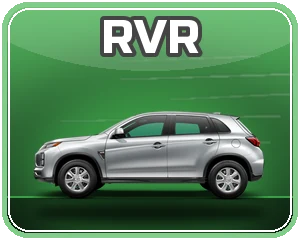
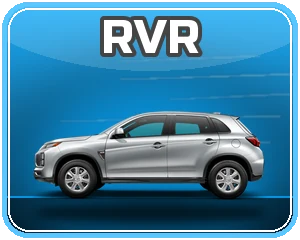
Madness t130u-t134u: rotating wheels (distance/radius, motion blur) on all side-view cars; per-symbol win sounds; louder climbing lining-up bell; plain stop for non-contributing reels; RVR blue / Sportback EV green tiles; off-road + rally backgrounds scroll so cars drive forward; tests wheels/lineup

diff --git a/public/madness/game.js b/public/madness/game.js
@@ -97,6 +97,7 @@ function forceOf(kind) {
     rv5w: fix([['KY', 'RV', 'TI'], ['EC', 'RV', 'OU'], ['KY', { s: 'WD', mult: 2 }, 'TI'], ['EC', 'RV', 'OU'], ['EV', 'RV', 'PH']]),
     rv5x2: fix([['KY', 'RV', 'TI'], ['RV', 'RV', 'OU'], ['KY', 'RV', 'TI'], ['EC', 'RV', 'OU'], ['EV', 'RV', 'PH']]),
     plugs2: fix([['KY', 'PL', 'TI'], ['EC', 'OU', 'EV'], ['KY', 'RV', 'PL'], ['EC', 'OU', 'EV'], ['KY', 'RV', 'TI']]),
+    phscatter: fix([['KY', 'RV', 'TI'], ['PH', 'EC', 'OU'], ['EV', 'PH', 'EC'], ['PH', 'OU', 'EV'], ['EC', 'PH', 'OU']]),
     noline: fix([['KY', 'RV', 'TI'], ['EC', 'OU', 'EV'], ['KY', 'RV', 'TI'], ['EC', 'OU', 'EV'], ['KY', 'RV', 'TI']]),
     ph5: fix([['KY', 'PH', 'TI'], ['EC', 'OU', 'PH'], ['KY', 'PH', 'TI'], ['PH', 'EC', 'OU'], ['EV', 'PH', 'RV']]),
     win: row('EC', 3), big: g => { row('EV', 5)(g); set(g, 1, 0, { s: 'EV' }); set(g, 3, 2, { s: 'EV' }); set(g, 2, 1, { s: 'WD', mult: 2 }); },
@@ -183,7 +184,7 @@ function markWins(res) { const cells = new Set(); for (const w of res.ways) for 
 // t116u: multiple wins are shown one by one so the total visibly adds up: first ALL winning tiles together, then each way in turn
 // (its tiles incl. wilds + its path + "3× RVR · 3 WAYS · 0.70"), the WIN meter counting up way by way to the total; the cycle keeps
 // going while idle and is cleared the instant SPIN is pressed (clearWinBanner).
-const SYMC = { RV: '#3fe06a', EC: '#ff9a3a', OU: '#4a8cff', EV: '#22d8ff', PH: '#ffd84a' };
+const SYMC = { RV: '#2ab4ff', EC: '#ff9a3a', OU: '#4a8cff', EV: '#3fe06a', PH: '#ffd84a' };
 let winCyc = null; window.__winCycle = null;
 // t123u: ONE amount function for every way: the banner, the win cycle, the WIN meter (credits + $) and the paytable all use M.wayPay / wayAmt,
 // so a single 5x RVR way at 50 credits x 10¢ reads 100 credits = $10.00 everywhere. Wild multipliers / the Madness progressive are spelled out.
@@ -200,12 +201,12 @@ async function resolve(res, mode) {
   if (win > 0) { const ways = res.ways.slice().sort((a, b) => b.pay - a.pay); res = Object.assign({}, res, { ways }); A.play('win', ways.length); $('frame').classList.add('winning');
     const cyc = winCyc = { res, i: 0, labels: ways.map(w => wayLabel(w, res)), total: win, timer: 0, dead: false }; window.__winCycle = { n: ways.length, labels: cyc.labels, pays: ways.map(w => wayAmt(w, res)), credits: ways.map(w => cr(wayAmt(w, res))), total: win };
     showAllWins(res, win); fxs({ kind: 'winways', n: ways.length });
-    const t = M.tier(win, bet()); try { SH.win((ways.find(w => M.CARS.includes(w.s)) || ways[0]).s, '+' + fmt(win), t); } catch (e) {}
+    const t = M.tier(win, bet()); A.play('symWin', ways[0].s, ['win', 'big', 'mega', 'madness'].indexOf(t)); /* t131u: the top way's own symbol sound */ try { SH.win((ways.find(w => M.CARS.includes(w.s)) || ways[0]).s, '+' + fmt(win), t); } catch (e) {}
     const _t = t, step = quick ? 120 : mode ? 420 : 650, base = disp.win;
     if (t !== 'win') { await bigWin(win, t); disp.win = base + win; meters(); }
     else await sleep(quick ? 150 : 600);
     // first pass: each way in turn, WIN meter climbing way by way
-    if (ways.length > 1 && !cyc.dead) { let run = 0; for (let i = 0; i < ways.length && !cyc.dead; i++) { run += wayAmt(ways[i], res); showWay(res, i, run); A.play('coin', i);
+    if (ways.length > 1 && !cyc.dead) { let run = 0; for (let i = 0; i < ways.length && !cyc.dead; i++) { run += wayAmt(ways[i], res); showWay(res, i, run); A.play('coin', i); if (i) A.play('symWin', ways[i].s, 0);
         if (t === 'win') await roll('win', base + Math.min(run, win), step * .8, true); else await sleep(step); }
       if (t === 'win') { disp.win = base + win; meters(); } }
     else if (t === 'win') await roll('win', base + win, Math.min(1400, 400 + win / bet() * 120), true);
@@ -223,8 +224,8 @@ function stopSound(r, cells) { if (r === 0) { lineSt.cols = []; lineSt.flags = 0
   const live = M.PAYSYMS.filter(s => lineSt.cols.slice(0, r + 1).every(col => col && col.some(c => c.s === s || c.s === 'WD')) && lineSt.cols[0].some(c => c.s === s));
   const n = live.length ? r + 1 : 0, top = live.length ? live[live.length - 1] : null, heavy = cells.some(c => /PH|WD|FL|PL/.test(c.s)); let kind = 'plain';
   if (n >= 2) { kind = 'lineUp'; A.play('lineUp', n, M.PAYSYMS.indexOf(top)); const hot = []; for (let k = 0; k <= r; k++) lineSt.cols[k].forEach((c, y) => { if (live.includes(c.s) || c.s === 'WD') hot.push([k, y]); }); try { reels.lineUp(hot, n); } catch (e) {} }
-  else A.play('reelStop', r, heavy);
-  const land = []; cells.forEach(c => { if (c.s === 'FL') { lineSt.flags++; land.push('flag'); A.play('flag', lineSt.flags - 1); } else if (c.s === 'PL') { lineSt.plugs++; land.push('plug'); A.play('plugLand', lineSt.plugs); } else if (c.s === 'WD') { land.push('wild'); A.play('sparkle'); } else if (c.s === 'PH') land.push('ph'); });
+  else A.play('reelStop', r, false); // t132u: a stop that continues nothing is ONLY the plain clunk (no per-symbol sounds)
+  const land = []; cells.forEach(c => { if (c.s === 'FL') { lineSt.flags++; land.push('flag'); A.play('flag', lineSt.flags - 1); } else if (c.s === 'PL') { lineSt.plugs++; land.push('plug'); A.play('plugLand', lineSt.plugs); } else if (c.s === 'WD' && n >= 2) { land.push('wild'); A.play('sparkle'); } else if (c.s === 'PH' && n >= 2 && live.includes('PH')) land.push('ph'); });
   if (land.includes('ph')) A.play('phLand', n);
   window.__stopLog.push({ r, kind, n, top, land }); }
 function meterPulse(m) { meters(); if (m.full) { SH.meter(1, true); toast('BOOST FULL!', 1500); A.play('turbo'); } }
@@ -378,7 +379,7 @@ function showPay() { const b = bet(), cell = (s, n) => { const u = M.wayPay(s, n
   let h = `<div class=payhead>PAYS PER WINNING WAY AT YOUR CURRENT BET<br><b>${betCr()} credits × ${denomTxt(st.denom)} = ${money(betCents())}</b></div>
   <p>243 ways: matching symbols on adjacent reels from the left pay, anywhere on each reel. Each separate path through matching tiles is one WAY, so 2 RVRs on reel 2 = 2 ways (pays ×2). A MADNESS WILD with ×2 / ×3 multiplies its ways. The win banner shows exactly this: <i>5× RVR · 1 WAY = ${fmt(M.wayPay('RV', 5, b))}</i>.</p>
   <table class=paytab><tr><th></th><th>Symbol</th><th>3</th><th>4</th><th>5</th></tr>`;
-  for (const s of M.PAYSYMS.slice().reverse()) h += `<tr class="${M.SYM[s].kind}"><td><img src="/madness/art/${s}.webp?v=3" alt=""></td><td>${M.SYM[s].name}</td>${[3, 4, 5].map(n => cell(s, n)).join('')}</tr>`;
+  for (const s of M.PAYSYMS.slice().reverse()) h += `<tr class="${M.SYM[s].kind}"><td><img src="/madness/art/${s}.webp?v=4" alt=""></td><td>${M.SYM[s].name}</td>${[3, 4, 5].map(n => cell(s, n)).join('')}</tr>`;
   h += `</table><p>5 of a kind on one way: PHEV ${M.PAY.PH[2]}× bet, Outlander ${M.PAY.OU[2]}×, Sportback EV ${M.PAY.EV[2]}×, Eclipse Cross ${M.PAY.EC[2]}×, RVR ${M.PAY.RV[2]}×. Values above change with your bet and denomination. <b>5 Outlander PHEVs on the centre row = PHEV GRAND (${usd(M.JP.grand * b)})</b>.</p><h3>Specials</h3><p><img src="/madness/art/WD.webp" alt=""> MADNESS WILD (reels 2-4) substitutes for every symbol; in base play it can carry ×2/×3, in free spins ×2 – ×10. Multipliers on one way multiply.</p>
   <p><img src="/madness/art/FL.webp" alt=""> 3 / 4 / 5 CHECKERED FLAGS anywhere spin the MADNESS WHEEL (more flags = fewer locked wedges).</p><p><img src="/madness/art/PL.webp" alt=""> 3 CHARGE PLUGS (reels 1, 3, 5) start PHEV CHARGE: 1 km = 1× bet, full 72 km = 72× bet (${usd(72 * b)}).</p>`;
   $('menuBody').innerHTML = h; window.__payShown = { bet: b, betCr: betCr(), denom: st.denom, rows: Object.fromEntries(M.PAYSYMS.map(s => [s, [3, 4, 5].map(n => ({ usd: fmt(M.wayPay(s, n, b)), cr: cr(M.wayPay(s, n, b)), x: M.PAY[s][n - 3] }))])) }; }

diff --git a/public/madness/scenes.js b/public/madness/scenes.js
@@ -6,7 +6,7 @@
   const sp = () => window.__madSpeed || 1;
   const sleep = ms => new Promise(r => setTimeout(r, ms * sp()));
   const rnd = (a, b) => a + Math.random() * (b - a);
-  const RACERS = [{ k: 'rvr', name: 'RVR', c: '#11b8a6' }, { k: 'ec', name: 'ECLIPSE CROSS', c: '#ff7a1a' }, { k: 'ev', name: 'SPORTBACK EV', c: '#00c8ff' }, { k: 'phev', name: 'OUTLANDER PHEV', c: '#e0182d' }];
+  const RACERS = [{ k: 'rvr', name: 'RVR', c: '#2ab4ff' }, { k: 'ec', name: 'ECLIPSE CROSS', c: '#ff7a1a' }, { k: 'ev', name: 'SPORTBACK EV', c: '#3fe06a' }, { k: 'phev', name: 'OUTLANDER PHEV', c: '#e0182d' }];
   const ORD = ['', '1ST', '2ND', '3RD', '4TH'];
   // ---------------- scene controller ----------------
   const S = { draw: null, alive: false, raf: 0, seq: 0 };
@@ -40,8 +40,8 @@
     const scroll = { x: 0 };
     S.draw = (g, W, H, now) => { const speed = st.phase === 'race' ? 26 : st.phase === 'finish' ? 6 : 0; scroll.x = (scroll.x + speed * sp() ** -1) % 80; scroll.px = (scroll.px || 0) + speed * 1.6;
       // photo-real circuit (grandstand + asphalt), scrolling with motion blur while racing
-      const ph = F().photo('bg-rally'); g.fillStyle = '#111'; g.fillRect(0, 0, W, H); const m = F().cover(g, ph, W, H, { scroll: scroll.px });
-      if (speed > 10) { g.globalAlpha = .35; F().cover(g, ph, W, H, { scroll: scroll.px - 14 }); g.globalAlpha = .2; F().cover(g, ph, W, H, { scroll: scroll.px - 28 }); g.globalAlpha = 1; }
+      const ph = F().photo('bg-rally'); g.fillStyle = '#111'; g.fillRect(0, 0, W, H); const m = F().cover(g, ph, W, H, { scroll: -scroll.px });
+      if (speed > 10) { g.globalAlpha = .35; F().cover(g, ph, W, H, { scroll: -(scroll.px - 14) }); g.globalAlpha = .2; F().cover(g, ph, W, H, { scroll: -(scroll.px - 28) }); g.globalAlpha = 1; }
       const top = m.ok ? m.y(.475) : H * .3, bot = m.ok ? m.y(.885) : H * .74, laneH = (bot - top) / 4;
       g.fillStyle = 'rgba(255,255,255,.35)'; for (let l = 1; l < 4; l++) { const y = top + l * laneH; for (let x = -80 + scroll.x; x < W; x += 80) g.fillRect(x, y - 1, 40, 2); }
       const vg = g.createLinearGradient(0, 0, 0, H); vg.addColorStop(0, 'rgba(0,0,0,.35)'); vg.addColorStop(.2, 'rgba(0,0,0,0)'); vg.addColorStop(.85, 'rgba(0,0,0,0)'); vg.addColorStop(1, 'rgba(0,0,0,.6)'); g.fillStyle = vg; g.fillRect(0, 0, W, H);
@@ -53,7 +53,7 @@
       // cars
       const w = Math.min(W * .3, laneH * 2.3);
       for (let i = 0; i < 4; i++) { const y = top + (i + 1) * laneH - laneH * .12, x = worldX(st.prog[i]) + (st.phase === 'race' ? Math.sin(now / 90 + i) * 1.5 : 0); const mine = i === st.pick;
-        F().drawCar(g, RACERS[i].k, x, y, w, { flame: st.phase === 'race' && (st.boost && st.boost[i]) ? 1.6 : st.phase === 'race' ? .6 : 0, glow: mine ? '#ffd84a' : null });
+        F().drawCar(g, RACERS[i].k, x, y, w, { track: (st.wt = st.wt || [])[i] || (st.wt[i] = {}), wx: -st.prog[i] * W * 2.6, wspin: st.phase === 'lights' && st.lights > 5 ? -.25 : 0, flame: st.phase === 'race' && (st.boost && st.boost[i]) ? 1.6 : st.phase === 'race' ? .6 : 0, glow: mine ? '#ffd84a' : null });
         g.fillStyle = RACERS[i].c; g.font = `900 ${Math.round(laneH * .2)}px Russo,sans-serif`; g.textAlign = 'center'; { const lab = (mine ? '★ YOU · ' : '') + RACERS[i].name, tw = g.measureText(lab).width; g.fillText(lab, Math.max(tw / 2 + 6, Math.min(W - tw / 2 - 6, x)), y - w * .36); }
         if (st.places && st.phase === 'done') { g.fillStyle = '#ffd84a'; g.font = `900 ${Math.round(laneH * .32)}px Russo,sans-serif`; g.fillText(ORD[st.places[i]], x + w * .62, y - w * .12); } }
       // speed lines
@@ -95,14 +95,14 @@
     S.draw = (g, W, H, now) => { const c = TCOL[st.terrain] || TCOL.GRAVEL;
       const spd = st.drive ? 7 : st.stuck ? .4 : 0; scrollX += spd;
       // photo-real terrain for each stage (gravel / mud / snow / rocks / sand), scrolling as you drive
-      g.fillStyle = '#111'; g.fillRect(0, 0, W, H); const m = F().cover(g, F().photo('bg-' + String(st.terrain || 'GRAVEL').toLowerCase()), W, H, { scroll: scrollX * 1.2, fy: .6 });
+      g.fillStyle = '#111'; g.fillRect(0, 0, W, H); const m = F().cover(g, F().photo('bg-' + String(st.terrain || 'GRAVEL').toLowerCase()), W, H, { scroll: -scrollX * 1.2, fy: .6 });
       const base = m.ok ? Math.min(H * .86, m.y(.8)) : H * .66; const gy = x => base + Math.sin((x - scrollX) / 55) * 6 + Math.sin((x - scrollX) / 17) * 2;
       const vg = g.createLinearGradient(0, 0, 0, H); vg.addColorStop(0, 'rgba(0,0,0,.55)'); vg.addColorStop(.3, 'rgba(0,0,0,.05)'); vg.addColorStop(1, 'rgba(0,0,0,.25)'); g.fillStyle = vg; g.fillRect(0, 0, W, H);
       if (st.summit) { g.fillStyle = '#fff'; g.fillRect(W * .2, H * .2, 3, 50); g.fillStyle = '#ff2040'; g.fillRect(W * .2 + 3, H * .2, 30, 18); }
       const w = W * .55, cx = W * .48, y = gy(cx) + 4 + (st.drive ? Math.sin(now / 50) * 3 : 0) + (st.stuck ? Math.sin(now / 25) * 2 : 0);
       const tilt = (gy(cx + 30) - gy(cx - 30)) / 60 * .6 + (st.stuck ? Math.sin(now / 40) * .02 : 0);
       if (st.rescue) { g.save(); g.globalAlpha = .5 + .5 * Math.sin(now / 80); g.strokeStyle = '#22c3ff'; g.lineWidth = 6; g.shadowColor = '#22c3ff'; g.shadowBlur = 30; g.beginPath(); g.ellipse(cx, y - w * .15, w * .6, w * .25, 0, 0, 7); g.stroke(); g.restore(); }
-      F().drawCar(g, 'out', cx, y, w, { tilt, flame: st.rescue ? 1.2 : 0 });
+      F().drawCar(g, 'out', cx, y, w, { tilt, flame: st.rescue ? 1.2 : 0, track: st.wt || (st.wt = {}), wx: -scrollX, wspin: st.stuck ? -.45 : 0 });
       if ((st.drive || st.stuck) && Math.random() < .9) for (let k = 0; k < (st.stuck ? 3 : 1); k++) { g.fillStyle = c[2]; const px = cx + w * rnd(-.35, .4), py = y - rnd(0, 30); g.globalAlpha = .8; g.beginPath(); g.arc(px + rnd(0, 30), py, rnd(2, 6), 0, 7); g.fill(); g.globalAlpha = 1; }
       // stage progress dots
       for (let i = 0; i < 5; i++) { const x = W / 2 + (i - 2) * 34, yy = H * .2; g.fillStyle = i < st.stage ? '#30e060' : i === st.stage ? '#ffd84a' : 'rgba(255,255,255,.25)'; g.beginPath(); g.arc(x, yy, 10, 0, 7); g.fill(); g.fillStyle = '#000'; g.font = '900 11px Russo,sans-serif'; g.textAlign = 'center'; g.textBaseline = 'middle'; g.fillText(i + 1, x, yy + 1); }

diff --git a/public/madness/fx.js b/public/madness/fx.js
@@ -24,7 +24,11 @@
     g.fillStyle = 'rgba(0,0,0,.45)'; g.beginPath(); g.ellipse(0, -h * .02, w * .48, h * .07, 0, 0, 7); g.fill();
     if (o.flame) { const fl = o.flame; for (let i = 0; i < 3; i++) { const L = w * (.12 + Math.random() * .18) * fl; const gr = g.createLinearGradient(w * .48, 0, w * .48 + L, 0); gr.addColorStop(0, 'rgba(120,220,255,.95)'); gr.addColorStop(.4, 'rgba(255,170,40,.8)'); gr.addColorStop(1, 'rgba(255,40,0,0)'); g.fillStyle = gr; g.beginPath(); g.moveTo(w * .46, -h * .3); g.lineTo(w * .48 + L, -h * .26 + rnd(-2, 2)); g.lineTo(w * .46, -h * .2); g.fill(); } }
     if (o.glow) { g.shadowColor = o.glow; g.shadowBlur = 24; }
-    g.drawImage(I, -w / 2, -h, w, h); g.restore(); return h; }
+    g.drawImage(I, -w / 2, -h, w, h); g.shadowBlur = 0;
+    // t130u wheels turn with the car's travel (o.track: state object; o.wx: world x when the camera follows; o.wspin: extra wheelspin; o.wheel: {a, o} fixed)
+    if (window.MadWheels) { let a = 0, om = 0; if (o.track) { a = MadWheels.step(o.track, o.wx != null ? o.wx : x, o.wx != null ? 0 : y, w, o.wspin || 0); om = o.track.wo; } else if (o.wheel) { a = o.wheel.a; om = o.wheel.o; }
+      if (o.flip) { a = -a; om = -om; } if (o.track || o.wheel) MadWheels.draw(g, I, -w / 2, -h, w, h, a, om); }
+    g.restore(); return h; }
   // ---------------- showroom / track behind the cabinet ----------------
   const stage = { cv: null, g: null, t0: performance.now(), cruisers: [], stars: [], attract: false, mode: '', paused: false, last: 0, roadY: 0, k: 1 };
   function stageInit(cv) { stage.cv = cv; stage.g = cv.getContext('2d'); for (let i = 0; i < 70; i++) stage.stars.push({ x: Math.random(), y: Math.random() * .5, s: Math.random() * 1.6 + .3, p: Math.random() * 6 }); requestAnimationFrame(stageLoop); }
@@ -42,7 +46,7 @@
     for (let i = stage.cruisers.length - 1; i >= 0; i--) { const c = stage.cruisers[i]; c.x -= c.v * dt; const w = (c.lane ? 108 : 92) * k, y = roadY + (c.lane ? rh * .95 : rh * .45);
       // headlight beam
       const hg = g.createLinearGradient(c.x - w * .5, 0, c.x - w * 1.6, 0); hg.addColorStop(0, 'rgba(255,250,210,.45)'); hg.addColorStop(1, 'rgba(255,250,210,0)'); g.fillStyle = hg; g.beginPath(); g.moveTo(c.x - w * .46, y - w * .14); g.lineTo(c.x - w * 1.6, y - w * .28); g.lineTo(c.x - w * 1.6, y + w * .02); g.lineTo(c.x - w * .46, y - w * .08); g.fill();
-      drawCar(g, c.k, c.x, y, w, { flame: c.flame ? 1 : 0 }); if (c.x < -w) stage.cruisers.splice(i, 1); }
+      drawCar(g, c.k, c.x, y, w, { flame: c.flame ? 1 : 0, track: c }); if (c.x < -w) stage.cruisers.splice(i, 1); }
   }
   // ---------------- particle overlay ----------------
   const P = { cv: null, g: null, list: [], running: false, emitters: [], hooks: [] };
@@ -101,8 +105,8 @@
         if (u >= 1 && !done) { done = true; res(); return false; } return true; }); fxStart();
       setTimeout(() => { if (!done) { done = true; if (!mid) { mid = true; try { onMid && onMid(); } catch (e) {} } res(); } }, D + 1500); }); },
     // car blasting across the screen (big wins / transitions)
-    flyBy(k = 'phev', ms = 1400, y) { const t0 = performance.now(), D = ms * speed(); P.hooks.push((now, g, W, H) => { const u = (now - t0) / D, w = W * .7, x = W + w / 2 - u * (W + w * 1.2), yy = y != null ? y : H * .72; if (u >= 1) return false;
-      MadFXObj.smoke(x + w * .45, yy - 10, 2); drawCar(g, k, x, yy, w, { flame: 1.5, glow: '#ff3048' }); return true; }); fxStart(); },
+    flyBy(k = 'phev', ms = 1400, y) { const tr = {}, t0 = performance.now(), D = ms * speed(); P.hooks.push((now, g, W, H) => { const u = (now - t0) / D, w = W * .7, x = W + w / 2 - u * (W + w * 1.2), yy = y != null ? y : H * .72; if (u >= 1) return false;
+      MadFXObj.smoke(x + w * .45, yy - 10, 2); drawCar(g, k, x, yy, w, { flame: 1.5, glow: '#ff3048', track: tr }); return true; }); fxStart(); },
     // cinematic speed tunnel (runs on the cine canvas until stop())
     tunnel(cv, o = {}) { const g = cv.getContext('2d'), t0 = performance.now(), I = photo('bg-tunnel'), lines = [...Array(70)].map(() => ({ a: rnd(0, 6.283), z: rnd(.05, 1), w: rnd(1, 2.5) })); let alive = true; const col = o.color || '#ff2040';
       const loop = now => { if (!alive) return; requestAnimationFrame(loop); const { W, H, d } = fit(cv); g.setTransform(d, 0, 0, d, 0, 0); const t = (now - t0) / 1000, cx = W / 2, cy = H * .47, R = Math.hypot(W, H) * .6;
@@ -112,7 +116,7 @@
         g.globalCompositeOperation = 'color'; g.fillStyle = col; g.globalAlpha = .45; g.fillRect(0, 0, W, H); g.globalAlpha = 1; g.globalCompositeOperation = 'source-over';
         const vg = g.createRadialGradient(cx, cy, R * .2, cx, cy, R); vg.addColorStop(0, 'rgba(0,0,0,0)'); vg.addColorStop(1, 'rgba(0,0,0,.75)'); g.fillStyle = vg; g.fillRect(0, 0, W, H);
         g.globalCompositeOperation = 'lighter'; for (const L of lines) { L.z -= .03 * (1 + t); if (L.z <= .02) { L.z = 1; L.a = rnd(0, 6.283); } const r1 = R * (1 - L.z) ** 2, r2 = R * (1 - L.z + .08) ** 2; g.strokeStyle = `rgba(255,240,220,${.15 + (1 - L.z) * .5})`; g.lineWidth = L.w * (1.5 - L.z); g.beginPath(); g.moveTo(cx + Math.cos(L.a) * r1, cy + Math.sin(L.a) * r1); g.lineTo(cx + Math.cos(L.a) * r2, cy + Math.sin(L.a) * r2); g.stroke(); } g.globalCompositeOperation = 'source-over';
-        if (o.car) { const u = Math.min(1, t / 1.6), w = W * (.1 + u * u * 1.1); drawCar(g, o.car, cx + Math.sin(t * 30) * u * 3, cy + w * .32, w, { flame: 1 + u, glow: col }); }
+        if (o.car) { const u = Math.min(1, t / 1.6), w = W * (.1 + u * u * 1.1); drawCar(g, o.car, cx + Math.sin(t * 30) * u * 3, cy + w * .32, w, { flame: 1 + u, glow: col, wheel: { a: -t * 28 % 6.283, o: -.6 } }); }
         if (o.bolt && Math.sin(t * 13) > .6) { g.strokeStyle = '#bff4ff'; g.lineWidth = 4; g.shadowColor = '#22c3ff'; g.shadowBlur = 20; g.beginPath(); let x = rnd(0, W), y = 0; g.moveTo(x, y); while (y < H) { x += rnd(-40, 40); y += rnd(20, 60); g.lineTo(x, y); } g.stroke(); g.shadowBlur = 0; } };
       requestAnimationFrame(loop); return () => { alive = false; }; },
   };

diff --git a/public/madness/show.js b/public/madness/show.js
@@ -39,6 +39,8 @@
     // motion ghosts
     if (fast) { g.save(); for (let i = 1; i <= 3; i++) { g.globalAlpha = .16 / i; g.drawImage(img, x + i * w * .06 * Math.min(2, a.v * 3), y, w, h); } g.restore(); }
     g.drawImage(img, x, y, w, h);
+    // t130u wheels turn with the car's travel on screen (hero dive included); a.wspin adds wheelspin (launch/burnout)
+    if (window.MadWheels) { const wa = MadWheels.step(a, x, y, w, a.wspin || 0); MadWheels.draw(g, img, x, y, w, h, wa, a.wo); }
     // tail lights + exhaust flame
     g.save(); g.globalCompositeOperation = 'lighter'; g.fillStyle = 'rgba(255,30,40,.9)'; g.shadowColor = '#ff0020'; g.shadowBlur = 12; g.fillRect(x + w * .93, y + h * .32, w * .04, h * .07);
     if (a.flame) { const fl = (.6 + Math.random() * .4) * a.flame, fx = x + w * .97, fy = y + h * .78; const gr = g.createLinearGradient(fx, 0, fx + w * .25 * fl, 0); gr.addColorStop(0, 'rgba(120,180,255,.95)'); gr.addColorStop(.4, 'rgba(255,170,40,.8)'); gr.addColorStop(1, 'rgba(255,60,0,0)');
@@ -119,7 +121,7 @@
   function colX(r) { try { const c = window.reels.cellRect(r, 0); fit(); return c.left + c.width / 2 - S.rect.left; } catch (e) { return S.W * (r + .5) / 5; } }
   const Show = {
     init(cv) { S.cv = cv; S.g = cv.getContext('2d'); S.k = () => parseFloat(getComputedStyle(document.getElementById('app')).getPropertyValue('--k')) || 1; requestAnimationFrame(loop); ev('init'); },
-    get state() { return { state: S.state, gantry: S.gantry.mode, zoom: +S.cam.z.toFixed(3), red: +S.red.toFixed(2), speed: +S.speed.toFixed(2), meter: +S.tmeter.toFixed(2), actors: S.actors.map(a => a.k + (a.hero ? '*' : '')), frames: S.frames, events: S.events.slice(-20) }; },
+    get state() { return { state: S.state, gantry: S.gantry.mode, zoom: +S.cam.z.toFixed(3), red: +S.red.toFixed(2), speed: +S.speed.toFixed(2), meter: +S.tmeter.toFixed(2), actors: S.actors.map(a => a.k + (a.hero ? '*' : '')), wheels: S.actors.map(a => ({ k: a.k, x: +(a._wx || 0).toFixed(1), y: +(a._wy || 0).toFixed(1), wa: +(a.wa || 0).toFixed(3), wo: +(a.wo || 0).toFixed(3), w: +((a._box && a._box.w) || 0).toFixed(1) })), frames: S.frames, events: S.events.slice(-20) }; },
     spin() { S.state = 'spin'; S.gantry = { mode: 'green', t: performance.now() }; S.tspeed = 1; S.cam.tz = 1.12; S.cam.kick = 3; S.tred = 0; S.hero = null; S.texts.length = 0; S.actors.forEach(a => { if (a.hero) a.dead = true; }); launchAll(3); if (Math.random() < .3) try { window.MadAudio.play('passby', .35); } catch (e) {} ev('spin'); },
     reelStop(r, cells) { const x = colX(r), y = S.H - 6, heavy = cells && cells.some(c => /PH|WD|FL|PL/.test(c.s)); S.cam.kick += heavy ? 5 : 2; puff(x, y, heavy ? 16 : 8); if (heavy) sparks(x, y, 18, cells.some(c => c.s === 'PL') ? '#22c3ff' : '#ffd84a');
       S.flashes.push({ x, y: y - 10, r: S.H * (heavy ? .7 : .45), t0: performance.now(), ms: heavy ? 500 : 320, c: heavy ? '255,240,200' : '200,220,255' }); S.actors.forEach(a => a.flash = heavy ? 1 : .5); if (r === 4) { S.tspeed = 0; S.cam.tz = 1.04; if (S.gantry.mode !== 'win') S.gantry = { mode: 'off', t: performance.now() }; S.state = 'idle'; } ev('stop', { r, heavy }); },
@@ -127,11 +129,11 @@
       else { try { S.engine && S.engine.stop(); } catch (e) {} S.engine = null; } ev('tease', { on }); },
     win(sym, amtText, tier) { const v = view(), k = IMG[sym] ? sym : ({ KY: 'EC', TI: 'RV' }[sym] || 'PH'); S.state = 'win'; S.tred = 0; S.gantry = { mode: 'win', t: performance.now() }; S.actors.forEach(a => { if (!a.hero) a.v = Math.max(a.v, .5); });
       const big = tier && tier !== 'win', W = S.W, H = S.H, t0 = performance.now(), base = Math.min(W * .5, H * 1.5);
-      const a = spawn(k, { hero: true, lane: 1, x: W + 20, w: base, flame: 1, trail: null, trailC: { RV: '#3fe06a', EC: '#ff9a3a', OU: '#4a8cff', EV: '#22d8ff', PH: '#ffd84a' }[k] });
+      const a = spawn(k, { hero: true, lane: 1, x: W + 20, w: base, flame: 1, trail: null, trailC: { RV: '#2ab4ff', EC: '#ff9a3a', OU: '#4a8cff', EV: '#3fe06a', PH: '#ffd84a' }[k] });
       S.hero = a; S.cam.tz = big ? 1.18 : 1.1;
       a.script = (a, now, dt, v) => { const u = (now - t0) / 1000, cx = W / 2 - base / 2;
         if (u < .55) { a.x = W + 20 - (W + 20 - cx) * ease(u / .55); a.flame = 1; }
-        else if (u < .62) { if (!a.braked) { a.braked = 1; puff(a.x + base * .8, laneY(v, 1) - 6, 18); puff(a.x + base * .2, laneY(v, 1) - 6, 12); S.cam.kick += 6; try { window.MadAudio.play('screech', .6); } catch (e) {} } }
+        else if (u < .62) { if (!a.braked) { a.braked = 1; puff(a.x + base * .8, laneY(v, 1) - 6, 18); puff(a.x + base * .2, laneY(v, 1) - 6, 12); S.cam.kick += 6; /* t131u: no generic tyre screech - each symbol has its own win sound (game.js symWin) */ } }
         else if (u < 1.5) { if (Math.floor(u * 6) % 2 === 0) a.flash = 1; if (!a.said) { a.said = 1; const bb = (() => { try { return document.getElementById('brand').getBoundingClientRect().bottom - S.rect.top; } catch (e) { return 0; } })(), fs = Math.round(Math.min(W * .1, H * .2)); S.texts.push({ s: amtText, x: W / 2, y: Math.max(H * .34, bb + fs * .75), size: Math.round(Math.min(W * .1, H * .2)), c: a.trailC, t0: now, ms: 2600 }); } }
         else if (u < 2.3) { // dive into the reels
           const p = (u - 1.5) / .8; a.y = laneY(v, 1) + p * p * H * .9; a.scale = 1 - p * .35; a.trail = a.trail || []; a.trail.push([a.x + base * .5 * (a.scale || 1), (a.y || 0) - 4]); if (a.trail.length > 16) a.trail.shift(); a.flame = 1; }

diff --git a/public/madness/audio.js b/public/madness/audio.js
@@ -91,7 +91,7 @@
     wheelSpin: 1.3, whoosh: .9, whoosh2: 1 };
   const ALL = Object.keys(GAIN);
   // loaded right after the first tap (what a base spin needs); everything else streams in afterwards, a few at a time
-  const CORE = ['reelSpin', 'reelStop', 'reelStopHeavy', 'click', 'tick', 'coin', 'coins', 'whoosh', 'rev', 'rev2', 'screechShort', 'limiter', 'engineLoop', 'chaching', 'drift', 'turbo', 'fanfare', 'crowd', 'fireworks', 'impact', 'whoosh2', 'horn', 'chime', 'spark', 'plug', 'plugIn'];
+  const CORE = ['reelSpin', 'reelStop', 'reelStopHeavy', 'click', 'tick', 'coin', 'coins', 'whoosh', 'rev', 'rev2', 'screechShort', 'limiter', 'engineLoop', 'chaching', 'drift', 'turbo', 'fanfare', 'crowd', 'fireworks', 'impact', 'whoosh2', 'horn', 'chime', 'spark', 'plug', 'plugIn', 'surge', 'powerUp', 'blowoff', 'beep', 'unlock', 'humLoop', 'fanfareBig', 'limiter', 'burnout', 'screech'];
   const buf = {}, loading = {}; let sbus = null, preloaded = false;
   Object.assign(diag, { total: ALL.length, loaded: 0, failed: [], errors: [], fmt: {}, http: {}, samples: 0 });
   const canAAC = (() => { try { const a = document.createElement('audio'); return !!(a.canPlayType && a.canPlayType('audio/mp4; codecs="mp4a.40.2"').replace(/no/, '')); } catch (e) { return false; } })();
@@ -144,8 +144,22 @@
     pick: () => { const r = smp('click', { gain: .7 }); S.pick(); return r || 1; },
     gear: () => smp('gear', { gain: .8 }) && (smp('rev2', { gain: .9, delay: .25 }), smp('turbo', { gain: .9, delay: .9 }), 1),
     // t127u 'lining up' on a reel stop: revs climb higher and louder with every reel in the chain, plus a rising tone; 5 in a row adds a crowd lift
-    lineUp: (n = 2, rank = 0) => { const k = n - 2; const r = smp('reelStop', { gain: .8, rate: 1.05 + k * .05 }); if (!r) S.reelStop(n - 1); smp('rev2', { gain: .45 + k * .18, rate: .92 + k * .13, dur: .55 + k * .15, offset: .2 });
-      const t = now(); osc('triangle', N(67 + k * 4 + Math.min(rank, 6)), 0, t, .22 + k * .05, .09 + k * .02); osc('sine', N(79 + k * 4), 0, t + .06, .25, .05 + k * .015); if (n >= 4) smp('whoosh2', { gain: .4 }); if (n >= 5) smp('crowd', { gain: .5, dur: 1.4 }); return r || 1; },
+    // t127u/t131u 'lining up' on a reel stop: a bright bell that climbs a step per matching reel (like Gorilla) + revs climbing higher and louder; 4 adds a whoosh, 5 a crowd lift
+    lineUp: (n = 2, rank = 0) => { const k = Math.max(0, Math.min(3, n - 2)), t = now(), st = [0, 4, 7, 12][k]; const r = smp('reelStop', { gain: .7, rate: 1.05 + k * .05 }); if (!r) S.reelStop(n - 1);
+      smp('chime', { gain: .9 + k * .15, rate: Math.pow(2, (st + 2) / 12), dur: .9 }); smp('rev2', { gain: .6 + k * .2, rate: .95 + k * .14, dur: .5 + k * .15, offset: .2 });
+      osc('triangle', N(76 + st), 0, t, .35 + k * .05, .16 + k * .03); osc('sine', N(88 + st), 0, t + .05, .3, .08 + k * .02); if (n >= 4) smp('whoosh2', { gain: .5 }); if (n >= 5) smp('crowd', { gain: .6, dur: 1.4 }); diag.lineUps = (diag.lineUps || 0) + 1; return r || 1; },
+    // t131u each symbol's own win sound; lvl 0 = win, 1 = big, 2 = mega, 3 = madness (scales the layers and the volume)
+    symWin: (sym, lvl = 0) => { const L = Math.max(0, Math.min(3, lvl | 0)), G = .8 + .12 * L, o = (n, x = {}) => smp(n, Object.assign({}, x, { gain: (x.gain == null ? 1 : x.gain) * G })); let r;
+      switch (sym) {
+        case 'TI': r = o('screech', { verb: .2 }); if (L) o('burnout', { gain: .6, delay: .4 }); break;                                   // performance tire: screeching tires
+        case 'PH': r = o('surge', { gain: .9, dur: 2.2 }); o('powerUp', { gain: .7, delay: .1 }); o('chime', { gain: .8, delay: .9 }); o(L ? 'fanfareBig' : 'fanfare', { gain: .7, delay: .7 }); break; // PHEV: electric surge + premium fanfare
+        case 'OU': r = o('rev', { gain: 1.1, rate: .88, verb: .25 }); if (L) o('limiter', { gain: .7, delay: .9 }); break;                 // Outlander: big V6-style roar
+        case 'EV': r = o('whoosh2', { gain: .9, rate: .8 }); o('humLoop', { gain: .8, rate: 1.7, dur: 1.4, delay: .1 }); o('zap', { gain: .45, rate: 1.4, delay: .35 }); if (L) o('powerUp', { gain: .6, rate: 1.3, delay: .4 }); break; // Sportback EV: futuristic electric whoosh + hum
+        case 'EC': r = o('turbo', { gain: .9 }); o('blowoff', { gain: .9, delay: .75 }); o('rev2', { gain: .6, delay: .95 }); break;      // Eclipse Cross: turbo spool + blow-off + rev
+        case 'RV': r = o('horn', { gain: .75, dur: .45 }); o('horn', { gain: .75, dur: .35, delay: .5 }); o('rev2', { gain: .8, delay: .9 }); break; // RVR: horn toot-toot + rev
+        case 'KY': r = o('beep', { gain: .8, rate: 1.3 }); o('beep', { gain: .8, rate: 1.3, delay: .2 }); o('unlock', { gain: .8, delay: .45 }); break; // smart key: fob chirp-chirp + unlock
+        default: r = o('coins'); }
+      if (L >= 2) o('crowd', { gain: .6, delay: .5 }); (diag.symWins = diag.symWins || []).push(sym); if (diag.symWins.length > 40) diag.symWins.shift(); return r || 1; },
     phLand: (n = 0) => smp('horn', { gain: .45, rate: 1.1 }) && (smp('chime', { gain: .35, rate: 1.2 }), 1),
     // t129u CHARGE plug lands: connector clunk snapping in + zap/crackle + rising power-up hum; the 2nd and 3rd plug zap harder and hum higher
     plugLand: (k = 1) => { k = Math.max(1, Math.min(3, k)); const r = smp('plugIn', { gain: .8 + k * .12, rate: 1 + (k - 1) * .09 });

diff --git a/test/madness-lineup.js b/test/madness-lineup.js
@@ -16,17 +16,27 @@ const BASE = process.env.MADNESS_URL || 'http://localhost:3490', URL = BASE + '/
       // 5 RVRs on the middle row: reel 1 plain, then lineUp 2,3,4,5 with glowing tiles
       let r = await run('rv5'); assert.deepStrictEqual(r.log.map(x => x.kind), ['plain', 'lineUp', 'lineUp', 'lineUp', 'lineUp'], JSON.stringify(r.log));
       assert.deepStrictEqual(r.log.map(x => x.n), [1, 2, 3, 4, 5]); assert.strictEqual(r.sounds.filter(s => s === 'lineUp').length, 4); assert.ok(r.hot >= 5, 'tiles glow ' + r.hot);
+      // t131u: the win plays the RVR's own sound (horn + rev), not tyre screech
+      { const d = await p.evaluate(() => ({ sw: MadAudio.diag.symWins.slice(), log: MadAudio.diag.log.slice() })); assert.strictEqual(d.sw[d.sw.length - 1], 'RV', 'RVR win sound'); assert.ok(r.sounds.includes('symWin'), 'symWin played'); assert.ok(!r.sounds.includes('screech'), 'no tyre screech on an RVR win: ' + r.sounds.join(',')); }
       // nothing in common between reel 1 and reel 2: every stop is a plain clunk, no lineUp, no glow
       r = await run('noline'); assert.deepStrictEqual(r.log.map(x => x.kind), ['plain', 'plain', 'plain', 'plain', 'plain']);
       assert.ok(!r.sounds.includes('lineUp')); assert.strictEqual(r.sounds.filter(s => s === 'reelStop').length, 5); assert.strictEqual(r.hot, 0);
+      // t132u: PHEVs landing where they continue nothing -> only the plain stop, no per-symbol landing sounds
+      r = await run('phscatter'); assert.deepStrictEqual(r.log.map(x => x.kind), ['plain', 'plain', 'plain', 'plain', 'plain']);
+      { const stopSounds = r.sounds.filter(s => /reelStop|lineUp|phLand|sparkle|flag|plugLand/.test(s)); assert.deepStrictEqual(stopSounds, ['reelStop', 'reelStop', 'reelStop', 'reelStop', 'reelStop'], 'plain only: ' + r.sounds.join(',')); }
       // PHEVs landing on every reel: distinct PHEV landing sound + escalating lineUp
-      r = await run('ph5'); assert.strictEqual(r.sounds.filter(s => s === 'phLand').length, 5); assert.deepStrictEqual(r.log.map(x => x.n), [1, 2, 3, 4, 5]); assert.strictEqual(r.log[4].top, 'PH');
+      r = await run('ph5'); assert.strictEqual(r.sounds.filter(s => s === 'phLand').length, 4, 'phLand only on contributing reels 2-5'); assert.deepStrictEqual(r.log.map(x => x.n), [1, 2, 3, 4, 5]); assert.strictEqual(r.log[4].top, 'PH');
       // CHARGE plugs: their own plug-in landing sound, escalating with each plug (t129u)
       r = await run('plugs2'); assert.strictEqual(r.sounds.filter(s => s === 'plugLand').length, 2, 'plugLand x2'); assert.deepStrictEqual(r.log.filter(x => x.land.includes('plug')).map(x => x.r), [0, 2]);
       assert.ok(await p.evaluate(() => MadAudio.loaded().includes('plugIn')), 'plugIn clip decoded');
+      { const d = await p.evaluate(() => MadAudio.diag.symWins.slice(-1)[0]); assert.strictEqual(d, 'PH', 'PHEV win sound'); }
+      // every symbol has its own recorded win sound: each starts recordings, and the clip sets differ symbol to symbol
+      const per = await p.evaluate(async () => { const out = {}; for (const s of ['PH', 'OU', 'EV', 'EC', 'RV', 'TI', 'KY']) { const s0 = MadAudio.diag.samples; MadAudio.play('symWin', s, 0); out[s] = MadAudio.diag.samples - s0; await new Promise(r => setTimeout(r, 30)); } return out; });
+      for (const [k, n] of Object.entries(per)) assert.ok(n >= 1, 'symWin ' + k + ' started ' + n);
+      // the lining-up sound fires loud and climbs: 4 lineUps for 5 in a row (bell pitch steps 0/4/7/12 semitones)
       // flags get their own (rising) landing sound
       r = await run('almost'); assert.ok(r.sounds.filter(s => s === 'flag').length >= 2, 'flag sounds');
-      assert.deepStrictEqual(errs, []); console.log(`${tag}: rv5 plain→lineUp×4 (glow ${r.hot >= 0 ? 'ok' : ''}), noline all plain, ph5 phLand×5, flags ok`);
+      assert.deepStrictEqual(errs, []); console.log(`${tag}: symWin per symbol ${JSON.stringify(per)}, rv5 plain→lineUp×4 (glow ${r.hot >= 0 ? 'ok' : ''}), noline all plain, ph5 phLand×4, phscatter plain×5, flags ok`);
     } catch (e) { fails++; console.log('FAIL', tag, e.message); }
     await p.close(); }
   await b.close(); console.log(fails ? 'FAIL madness-lineup' : 'PASS madness-lineup'); process.exit(fails ? 1 : 0); })();

diff --git a/test/madness-wheels.js b/test/madness-wheels.js
@@ -1,0 +1,28 @@
+// t130u: side-view cars' wheels rotate with their speed (rotation = distance / wheel radius) in the top display, fly-bys and bonus scenes.
+// node test/madness-wheels.js   (MADNESS_URL=https://... for the live site)
+const P = require('puppeteer-core'), assert = require('assert');
+const BASE = process.env.MADNESS_URL || 'http://localhost:3490', URL = BASE + '/madness?debug=1', wait = ms => new Promise(r => setTimeout(r, ms));
+(async () => { const b = await P.launch({ executablePath: '/usr/bin/google-chrome', args: ['--no-sandbox', '--enable-unsafe-swiftshader'] }); let fails = 0;
+  for (const [tag, vp] of [['phone', { width: 412, height: 915 }], ['ipad', { width: 1024, height: 1366 }]]) {
+    const p = await b.newPage(), errs = []; p.on('pageerror', e => errs.push(e.message));
+    try {
+      await p.setViewport({ ...vp, isMobile: true, hasTouch: true }); await p.goto(URL); await p.evaluate(() => localStorage.clear()); await p.reload(); await p.waitForFunction(() => window.G && !G.busy && window.MadWheels);
+      // every model's wheel sprites cut from its photo
+      const sp = await p.evaluate(async () => { const ks = Object.keys(MadWheels.POS), out = {}; for (const k of ks) { const i = new Image(); i.src = `/madness/art/car-${k}.webp?v=1`; await i.decode(); const s = MadWheels.sprites(i); out[k] = s ? s.map(x => x.c.width) : null; } return out; });
+      for (const [k, s] of Object.entries(sp)) assert.ok(s && s.length === 2 && s.every(n => n > 20), 'sprites ' + k + ' ' + JSON.stringify(s));
+      await p.evaluate(() => { dbg.style.display = 'none'; }); await p.click('#billBtn'); await p.waitForFunction(() => !G.busy && G.st.cents > 0, { timeout: 30000 }); await wait(300);
+      await p.evaluate(() => { G.force('rv5'); window.__wheelDraws = 0; }); await p.click('#spinBtn');
+      // sample moving cars: wheel angle advance must equal distance travelled / radius (forward = leftwards = counter-clockwise)
+      await wait(250); const samples = await p.evaluate(() => new Promise(res => { const out = []; const f = () => { out.push(MadShow.state.wheels); if (out.length < 90) requestAnimationFrame(f); else res(out); }; requestAnimationFrame(f); }));
+      let checked = 0, maxOm = 0; for (let i = 1; i < samples.length; i++) for (const a of samples[i]) { const b0 = samples[i - 1].find(x => x.k === a.k && Math.abs(x.x - a.x) < a.w * .3); if (!b0 || !a.w || samples[i].filter(x => x.k === a.k).length > 1 || samples[i - 1].filter(x => x.k === a.k).length > 1) continue; const dx = a.x - b0.x; if (Math.abs(dx) < .5 || samples[i].length !== samples[i - 1].length) continue;
+        let da = a.wa - b0.wa; while (da > Math.PI) da -= 2 * Math.PI; while (da < -Math.PI) da += 2 * Math.PI; const want = (dx > .01 ? 1 : -1) * Math.hypot(dx, a.y - b0.y) / (.066 * a.w);
+        maxOm = Math.max(maxOm, Math.abs(a.wo)); { const T = 2 * Math.PI, e = (((da - want) % T) + T) % T, err = Math.min(e, T - e); assert.ok(err < Math.max(.2, Math.abs(want) * .02), `rate ${a.k} da=${da.toFixed(3)} want=${want.toFixed(3)} (mod 2pi)`); checked++; } }
+      assert.ok(checked >= 5, 'moving cars sampled: ' + checked); const draws = await p.evaluate(() => window.__wheelDraws); assert.ok(draws > 20, 'wheel draws ' + draws);
+      await p.screenshot({ path: `/workspace/madness-notes/shots/wheels-${tag}.png` }); await p.waitForFunction(() => !G.busy, { timeout: 60000 });
+      // fly-by + race scene use tracked wheels too
+      const fb = await p.evaluate(async () => { window.__wheelDraws = 0; MadFX.flyBy('phev', 900); await new Promise(r => setTimeout(r, 600)); return window.__wheelDraws; }).catch(e => 'n/a ' + e.message);
+      assert.ok(typeof fb !== 'number' || fb > 4, 'flyBy wheels ' + fb);
+      assert.deepStrictEqual(errs, []); console.log(`${tag}: sprites ok for ${Object.keys(sp).length} models, ${checked} moving-car samples match distance/radius, max ${maxOm.toFixed(2)} rad/frame, ${draws} wheel draws, flyBy ${fb}`);
+    } catch (e) { fails++; console.log('FAIL', tag, e.message); }
+    await p.close(); }
+  await b.close(); console.log(fails ? 'FAIL madness-wheels' : 'PASS madness-wheels'); process.exit(fails ? 1 : 0); })();

diff --git a/public/madness/wheels.js b/public/madness/wheels.js
@@ -1,0 +1,29 @@
+// MITSUBISHI MADNESS - t130u rotating wheels for the side-view car photos (top display, stage cruisers, fly-bys, rally race, hero dive).
+// Each photo's wheel is cut out as a circular sprite (centre + radius measured per model, madness-notes/wheels) and drawn back over the
+// photo rotated by distance / radius, so the spokes turn exactly with the car's speed: rolling = no slip, faster = faster, braking slows,
+// drift/burnout can add wheelspin. Above ~0.2 rad/frame the spokes get a rotational motion blur (ghosted copies along the arc).
+(function () {
+  // [cx, cy, r] as fractions of the image (cx, r of width; cy of height); cars face LEFT, front wheel first
+  const POS = { 'eclipse-cross': [[.265, .494, .0625], [.781, .489, .0625]], 'eclipse-sportback': [[.232, .593, .0664], [.770, .589, .0672]],
+    'outlander-phev': [[.231, .724, .0656], [.7375, .724, .0672]], outlander: [[.225, .721, .0656], [.736, .716, .0672]], rvr: [[.209, .662, .0719], [.811, .662, .0734]] };
+  const keyOf = img => { const m = /car-([a-z-]+)\.webp/.exec(img && img.src || ''); return m && m[1]; };
+  const cache = new Map(); window.__wheelDraws = 0;
+  function sprites(img) { const k = keyOf(img); if (!k || !POS[k] || !img.complete || !img.naturalWidth) return null; let s = cache.get(k); if (s) return s;
+    const W = img.naturalWidth, H = img.naturalHeight; s = POS[k].map(([cx, cy, r]) => { const R = r * W, n = Math.ceil(R * 2), c = document.createElement('canvas'); c.width = c.height = n; const g = c.getContext('2d');
+      g.beginPath(); g.arc(n / 2, n / 2, R * .97, 0, 7); g.clip(); g.drawImage(img, cx * W - n / 2, cy * H - n / 2, n, n, 0, 0, n, n); return { c, cx, cy, r }; });
+    cache.set(k, s); return s; }
+  // advance a wheel state by the car's movement this frame; forward = leftwards (cars face left). extra = added wheelspin in radians.
+  function step(st, x, y, w, extra = 0) { const R = Math.max(1, .066 * w); if (st._wx == null) { st._wx = x; st._wy = y; st.wa = st.wa || 0; st.wo = 0; }
+    const dx = x - st._wx, dy = y - st._wy, d = Math.hypot(dx, dy), da = (dx > .01 ? 1 : -1) * d / R + extra; st._wx = x; st._wy = y;
+    st.wa = ((st.wa || 0) + (d > w * 2 ? 0 : da)) % (Math.PI * 2); st.wo = d > w * 2 ? 0 : da; return st.wa; }
+  // draw rotated wheels over a car image already drawn at (x, y, w, h) in the current transform
+  function draw(g, img, x, y, w, h, angle, omega = 0) { const s = sprites(img); if (!s) return false;
+    for (const wh of s) { const R = wh.r * w, px = x + wh.cx * w, py = y + wh.cy * h, size = wh.c.width * w / img.naturalWidth, dir = omega < 0 ? -1 : 1;
+      g.save(); g.translate(px, py); g.beginPath(); g.arc(0, 0, R * .99, 0, 7); g.clip();
+      const blur = Math.min(1.1, Math.abs(omega) * 1.6);
+      g.rotate(angle); g.drawImage(wh.c, -size / 2, -size / 2, size, size);
+      if (blur > .25) { const n = 4; for (let i = 1; i <= n; i++) { g.globalAlpha = .34; g.rotate(-dir * blur / n); g.drawImage(wh.c, -size / 2, -size / 2, size, size); } }
+      g.restore(); window.__wheelDraws++; }
+    return true; }
+  window.MadWheels = { POS, step, draw, sprites };
+})();

diff --git a/public/madness/reels.js b/public/madness/reels.js
@@ -1,7 +1,7 @@
 // MITSUBISHI MADNESS - canvas reels (5 x 3): wind-back start, motion blur, staggered stops with overshoot, tease (slow, glowing) reels,
 // landing pops for specials, win pulse + dimming, wild multiplier chips, drift-wild reel transform. Purely visual. window.MadReels
 (function () {
-  const CODES = ['KY', 'TI', 'RV', 'EC', 'OU', 'EV', 'PH', 'WD', 'FL', 'PL'], V = '3';
+  const CODES = ['KY', 'TI', 'RV', 'EC', 'OU', 'EV', 'PH', 'WD', 'FL', 'PL'], V = '4';
   const img = {}, ready = Promise.all(CODES.map(c => new Promise(r => { const i = new Image(); i.decoding = 'async'; i.onload = i.onerror = () => r(); i.src = `/madness/art/${c}@2x.webp?v=${V}`; img[c] = i; })));
   const SPECIAL = { WD: 1, FL: 1, PL: 1 };
   const clamp = (x, a, b) => Math.max(a, Math.min(b, x));
@@ -49,7 +49,7 @@
     lineUp(cells, n) { const t = performance.now(); for (const [r, y] of cells) { const k = r + ',' + y; const h = this.hot.get(k); if (!h || h.n < n) this.hot.set(k, { t: h ? h.t : t, n }); if (!h) this.reels[r].pop[y] = t; } this.dirty = true; }
     transformReel(r, cells) { const R = this.reels[r]; R.list = cells.map(c => ({ ...c })); R.pos = 0; const t = performance.now(); [0, 1, 2].forEach(y => R.pop[y] = t + y * 90); this.flash = 1;
       for (let k = 0; k < 40; k++) this.sparks.push({ x: (r + .5) * (this.colW + this.gap), y: Math.random() * this.H, vx: (Math.random() - .5) * 6, vy: (Math.random() - .5) * 6, life: 1, c: Math.random() < .5 ? '#ff3048' : '#ffd84a' }); }
-    drawWays(g, now) { const W = this.win, col = { KY: '#c8cce0', TI: '#3fe0cf', RV: '#3fe06a', EC: '#ff9a3a', OU: '#4a8cff', EV: '#22d8ff', PH: '#ffd84a' }, wt = (now - W.t0) / 1000;
+    drawWays(g, now) { const W = this.win, col = { KY: '#c8cce0', TI: '#3fe0cf', RV: '#2ab4ff', EC: '#ff9a3a', OU: '#4a8cff', EV: '#3fe06a', PH: '#ffd84a' }, wt = (now - W.t0) / 1000;
       g.save(); g.lineCap = 'round'; g.lineJoin = 'round';
       W.ways.forEach((w, k) => { const c = col[w.s] || '#ffd84a', by = {}; for (const [r, y] of w.cells) (by[r] = by[r] || []).push(y);
         const P = (r, y) => { const q = this.cellXY(r, y); return [q.x + q.w / 2, q.y + q.h / 2]; }, grow = Math.min(1, wt * 1.8);

diff --git a/public/madness/index.html b/public/madness/index.html
@@ -52,6 +52,6 @@
 </div>
 <div id=rotate><div><b>Turn your device upright</b><span>MITSUBISHI MADNESS is designed for portrait</span></div></div>
 <i id=safeProbe></i>
-<script src=/madness/math.js></script><script src=/madness/audio.js></script><script src=/madness/reels.js></script><script src=/madness/fx.js></script><script src=/madness/scenes.js></script><script src=/madness/show.js></script>
+<script src=/madness/math.js></script><script src=/madness/audio.js></script><script src=/madness/reels.js></script><script src=/madness/wheels.js></script><script src=/madness/fx.js></script><script src=/madness/scenes.js></script><script src=/madness/show.js></script>
 <script src=/madness/game.js></script>
 </body></html>
